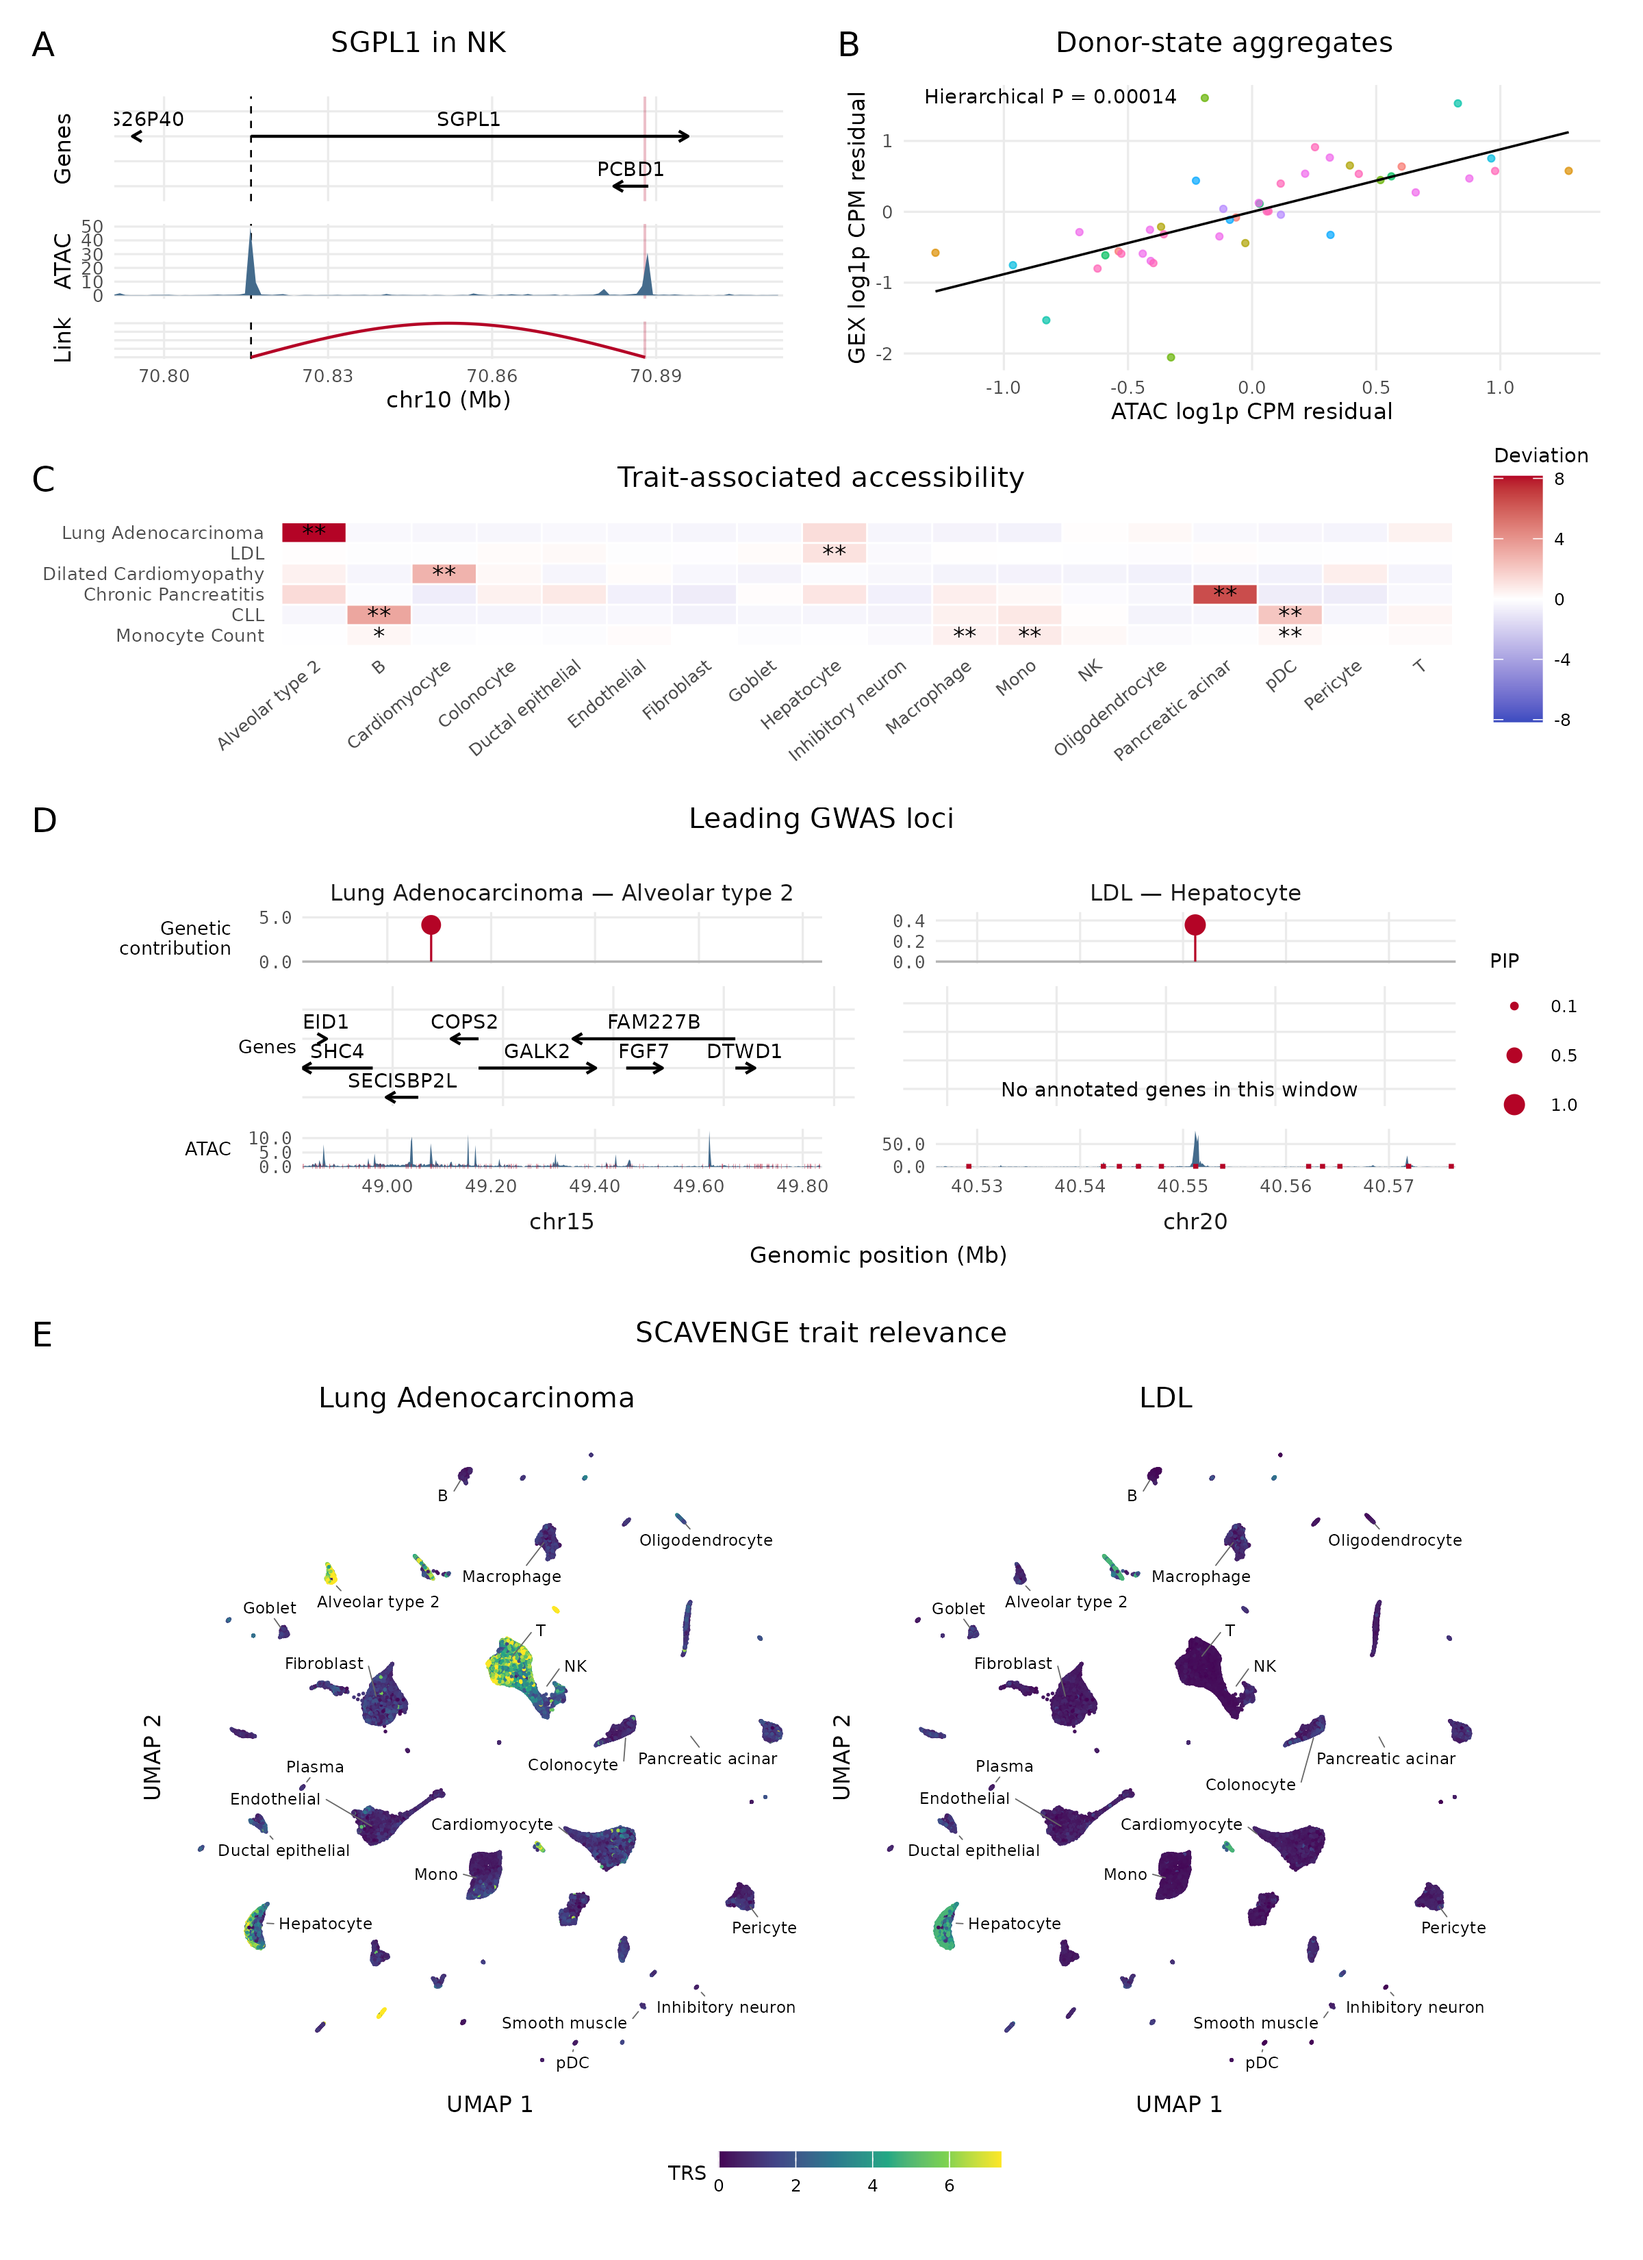
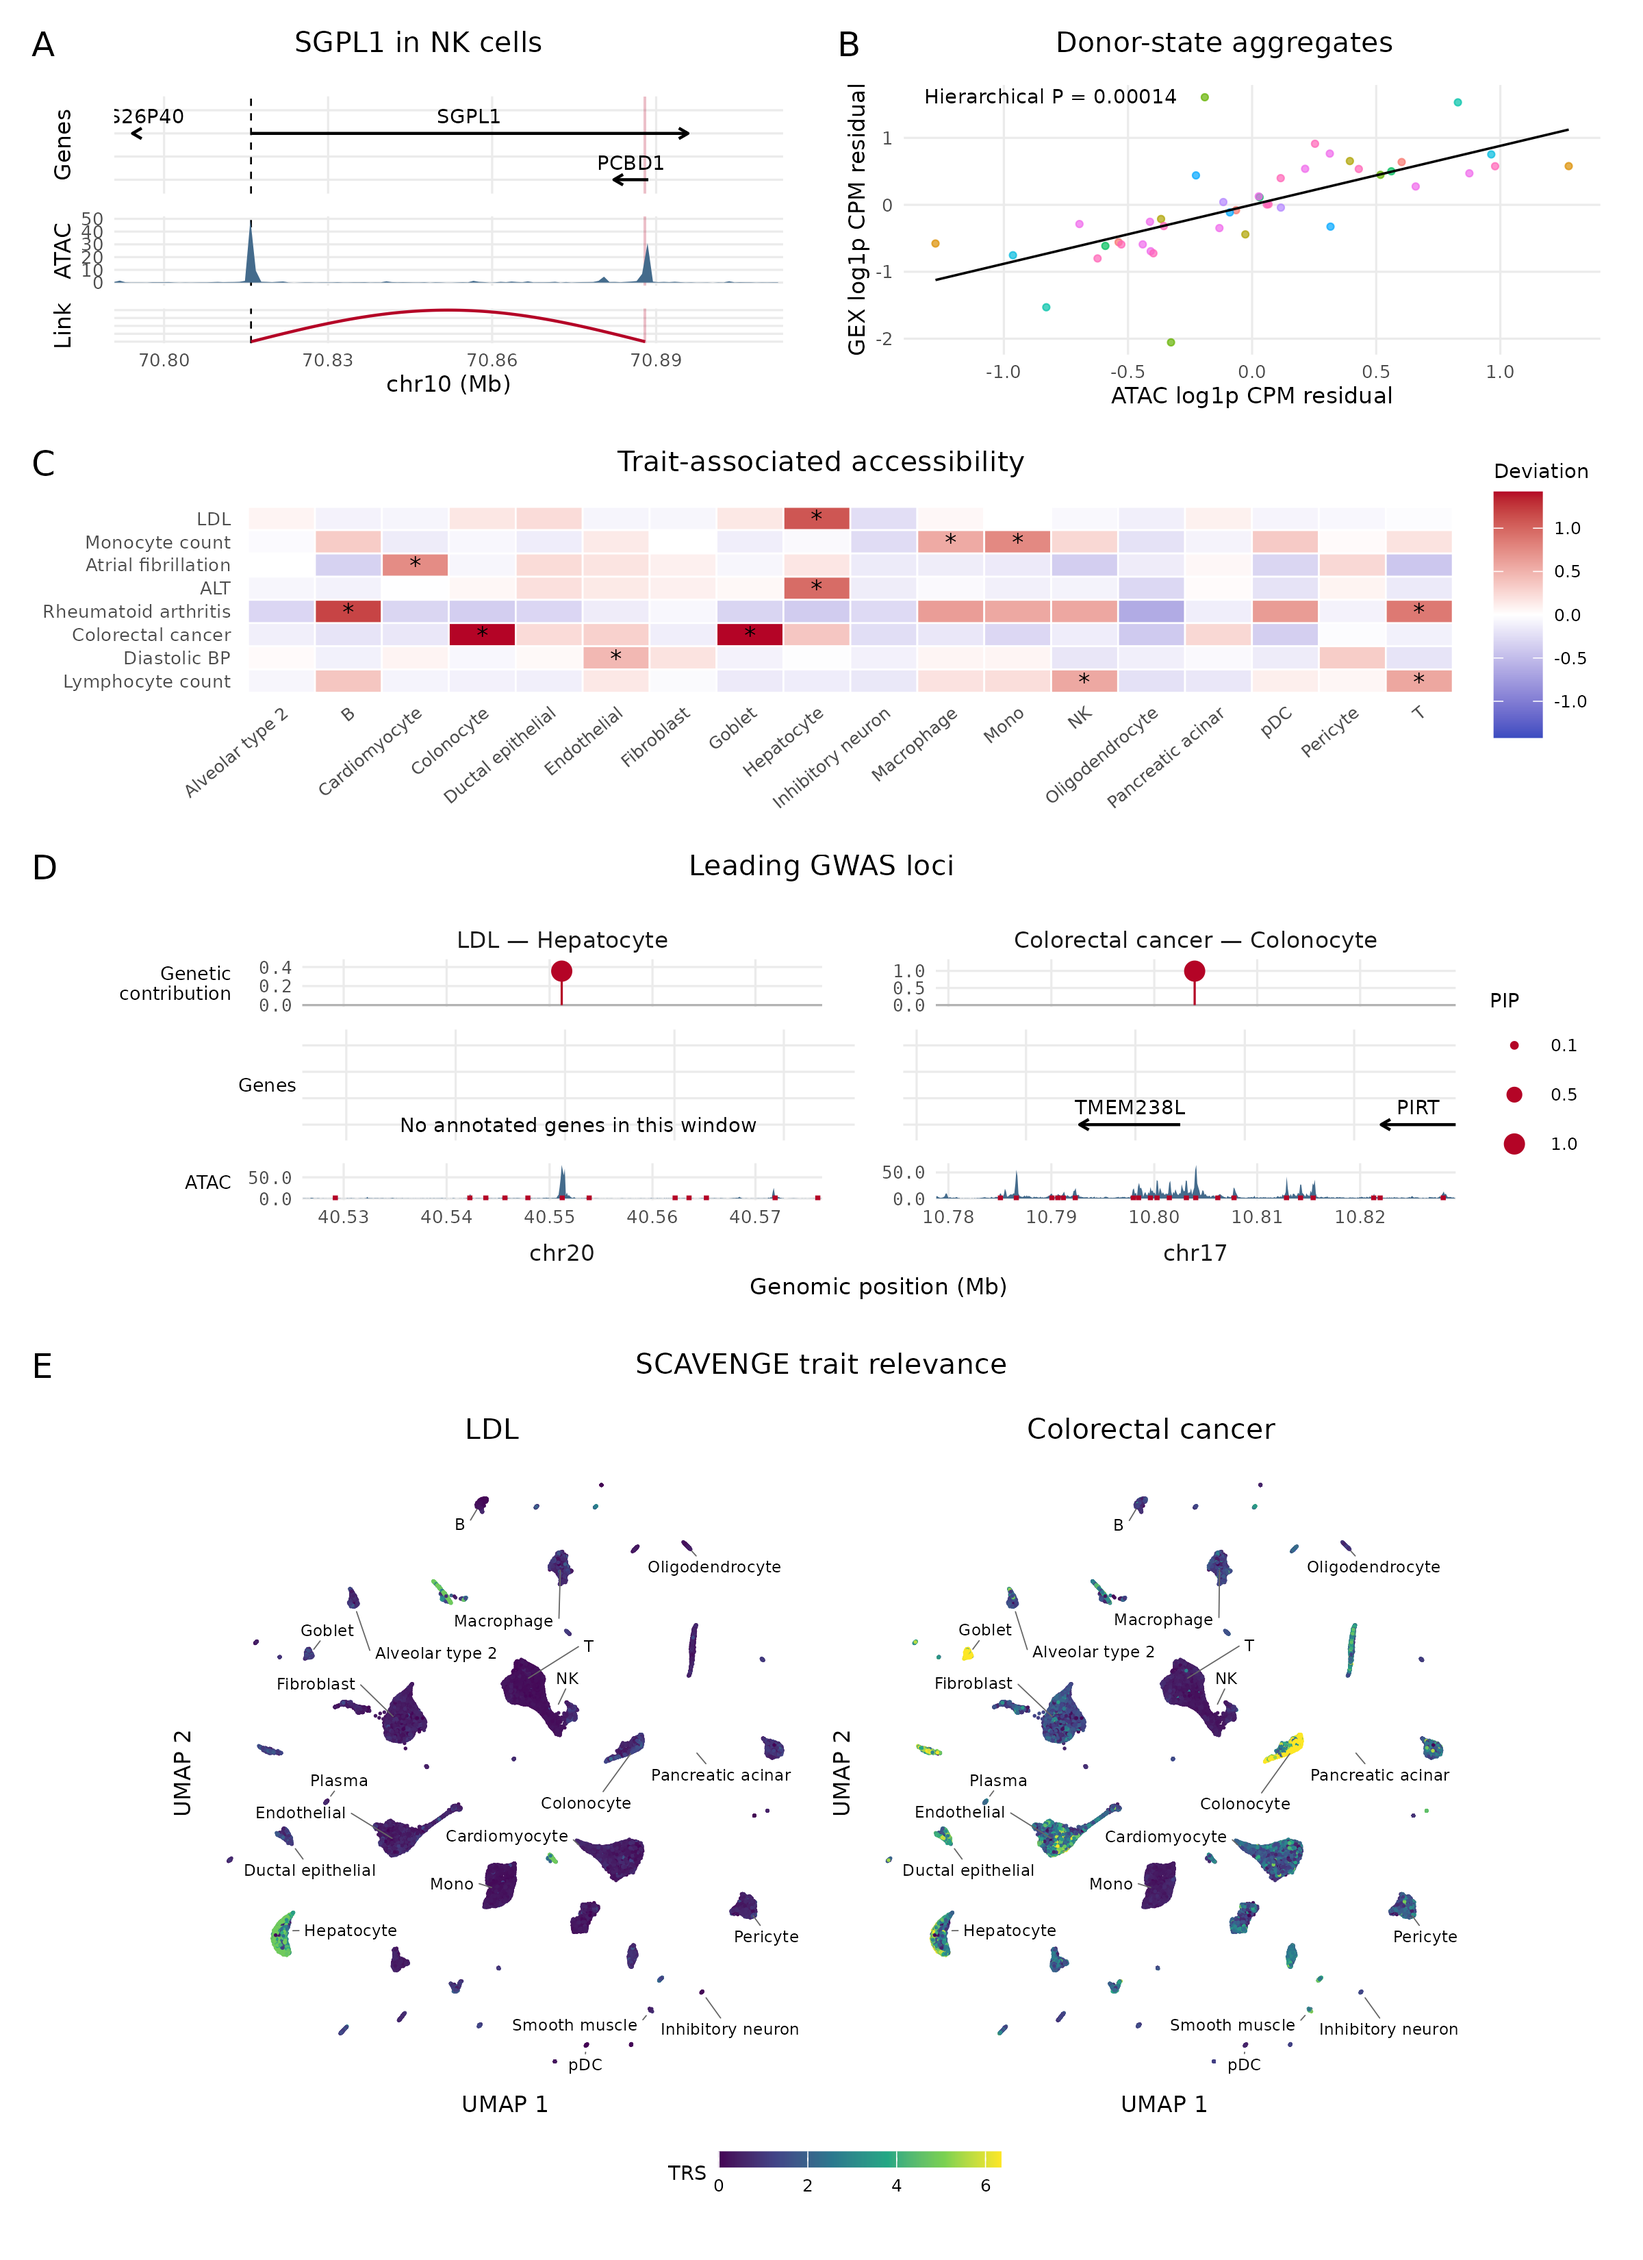
Show broadly supported trait enrichments in Figure 1C
Panel C showed the six studies with the largest raw z, which favoured pairs
that rest on one or a few loci: lung adenocarcinoma in alveolar type 2 cells
drew 82% of its signal from one locus. A new figure_1_traits target now keeps
the enrichments at q < 0.05 whose top locus carries less than half of the summed
contribution and whose study spreads its weight over at least 20 effective peaks,
(sum w)^2 / sum w^2. In decreasing z, a pair is shown unless its study is shown
already or its cell type shows a study of the same category, which gives eight
studies across ten cell types. Stars mark q < 0.05 instead of nominal P.

Panels D and E show LDL cholesterol in hepatocytes and colorectal cancer in
colonocytes. figure_1_traits.tsv adds each pair's q, and figure_1_aggregation.tsv
the numbers of enriched pairs, studies and cell types.

cascading_target_breaking: figure_1_panel_C.mixed_human_31x
cascading_target_breaking: figure_1_panel_D.mixed_human_31x
cascading_target_breaking: figure_1_panel_E.mixed_human_31x
cascading_target_breaking: figure_1_plot.mixed_human_31x
contained_target_breaking: figure_1_data.mixed_human_31x

diff --git a/pipeline_manuscript_figures/README.md b/pipeline_manuscript_figures/README.md
@@ -50,13 +50,16 @@ Selections are deterministic but follow the data.
   bodies, focal-cell-type coverage and a schematic link with 25 kb flanks; B the
   aggregate residuals coloured by donor with a descriptive regression line. The
   ranking is not an FDR claim, and aggregates are not independent donors.
-- **C:** up to six traits with a raw chromVAR Z ≥ qnorm(0.95), ordered by their
-  strongest cell type, across all assigned cell types; stars mark unadjusted upper-tail
-  P ≤ 0.05 and P ≤ 0.01.
-- **D:** for the two strongest cell-type–trait combinations, the locus with the
-  largest absolute contribution to the deviation, as aligned facets of variant
-  contributions (point area: PIP), protein-coding genes, focal coverage and
-  consensus peaks.
+- **C:** broadly supported cell-type–study enrichments across all assigned
+  cell types: chromVAR q < 0.05, a top locus below half of the summed
+  contribution and at least 20 effective weighted peaks, (Σw)²/Σw², so that no
+  pair rests on one or a few loci. In decreasing z, a pair is shown unless its
+  study is shown already or its cell type shows a study of the same category.
+  Stars mark q < 0.05.
+- **D:** for two of these pairs, LDL cholesterol in hepatocytes and colorectal
+  cancer in colonocytes, the locus with the largest absolute contribution to the
+  deviation, as aligned facets of variant contributions (point area: PIP),
+  protein-coding genes, focal coverage and consensus peaks.
 - **E:** SCAVENGE trait-relevance scores of the same two traits on the WNN UMAP,
   with a shared colour scale, unclipped scores and cell-type labels.
 
